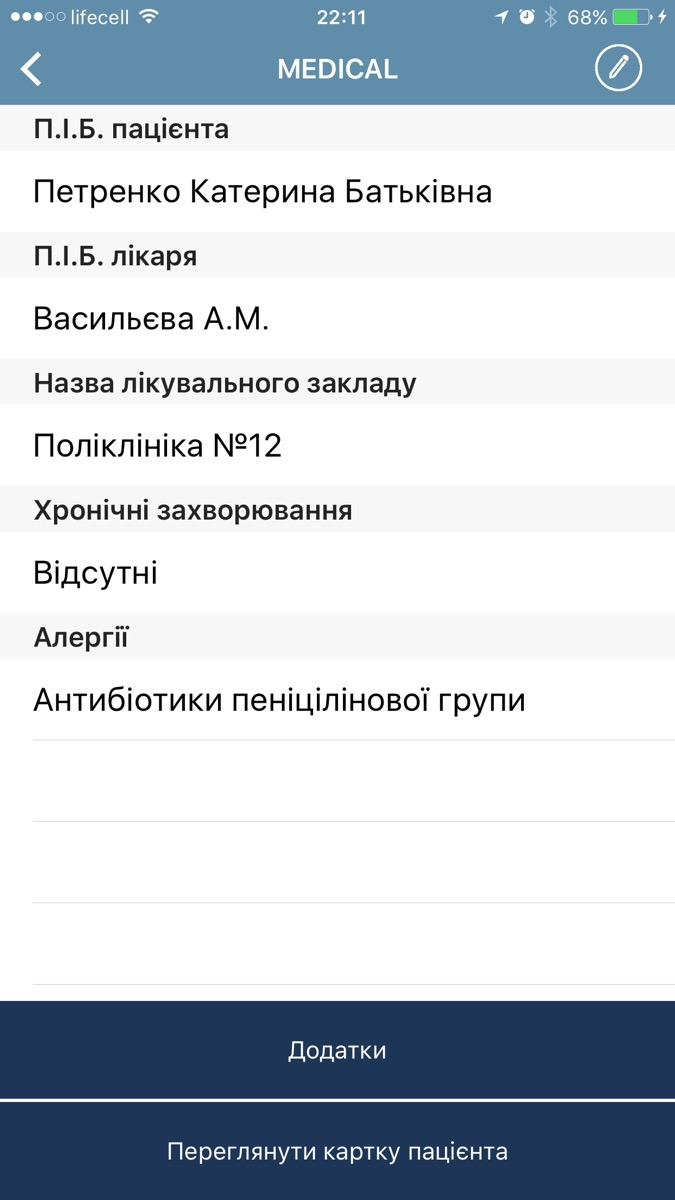
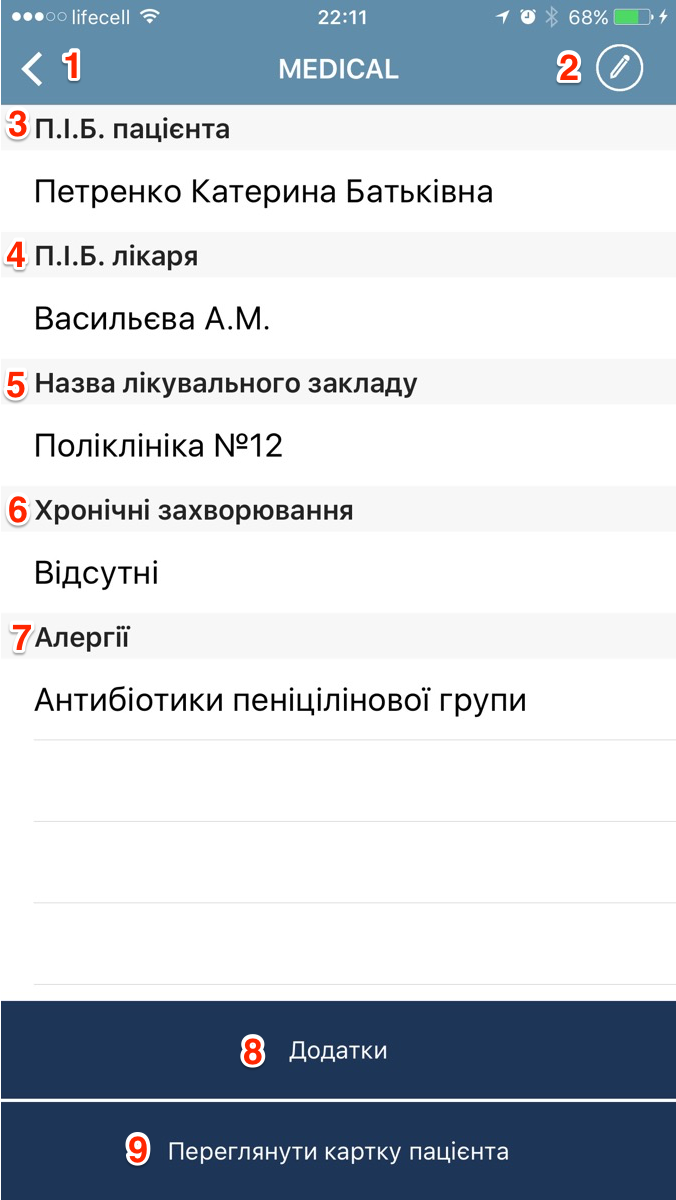
added controls to general_view, added table

diff --git a/Medical.md b/Medical.md
@@ -1,2 +1,17 @@
-### Medical
+## Medical
 
+
+### General View
+![img](https://github.com/A-Lomaieva/medical/blob/master/screens/general_view.PNG)
+
+| *ID* |*Control Name* |*Component Type*|*Behaviour/Description*| *Endpoint*|
+|:-- | ------------- | :------------- |:------------|------|
+|1|Back| Button| Goes back to [Search results](https://github.com/A-Lomaieva/medical/blob/master/screens/search_results.PNG) screen| |
+|2|Edit| Button| Opens general info block for edit<br>Redirect to [Edit]() screen| |
+|3|П.І.Б пацієнта
+|4|
+|5|
+|6|
+|7|
+|8|
+|9|
